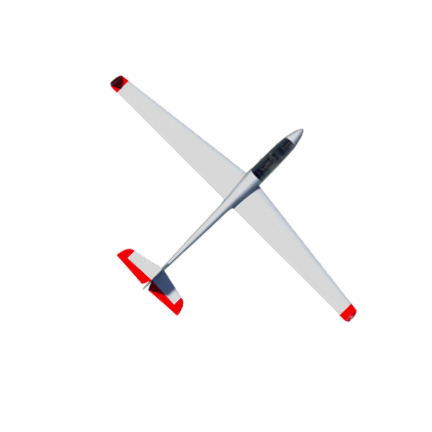
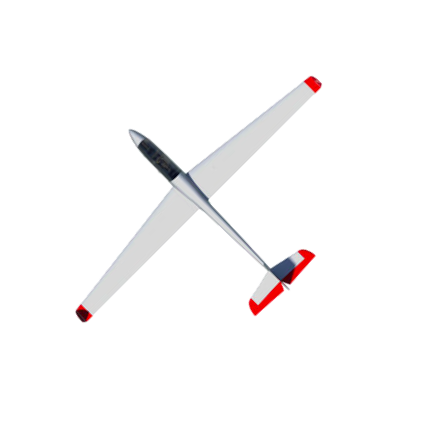
glider rotating during flight

Changed region(s): [[0.1806, 0.1505, 0.8426, 0.7523], [0.5718, 0.5718, 0.6019, 0.6019]]

diff --git a/public/index.html b/public/index.html
@@ -123,9 +123,7 @@
         videoElem.srcObject = await navigator.mediaDevices.getDisplayMedia(displayMediaOptions);
         const videoTrack = videoElem.srcObject.getVideoTracks()[0];
         var imageCapture = new ImageCapture(videoTrack);
-        console.log(imageCapture);
         imageCapture.grabFrame().then(function(imageBitmap) {
-          console.log('Grabbed frame:', imageBitmap);
           canvas.width = imageBitmap.width;
           canvas.height = imageBitmap.height;
           canvas.getContext('2d').drawImage(imageBitmap, 0, 0);
@@ -163,8 +161,8 @@
       $("#titleFlight").html("Start Flight");
       realtime_counter = 0;
 
-      console.log("realtime_counter outside  getCurrentPosition: "+realtime_counter);
-      console.log("realtime_markers outside  getCurrentPosition: "+realtime_markers);
+      // console.log("realtime_counter outside  getCurrentPosition: "+realtime_counter);
+      // console.log("realtime_markers outside  getCurrentPosition: "+realtime_markers);
 
        var d = new Date();
        var t2 = d.getTime();
@@ -188,19 +186,24 @@
            old_lng = curr_lng;
            vertical_speed = 0;
            old_alt = curr_alt;
+           old_coord = map.getProjection().fromLatLngToPoint(new google.maps.LatLng(old_lat,old_lng));
            curr_lat = position.coords.latitude;
            curr_lng = position.coords.longitude;
            curr_alt = position.coords.altitude;
+           // curr_lat = old_lat+ ((Math.floor(Math.random() * 20)-10)/1000);
+           // curr_lng = old_lng+ ((Math.floor(Math.random() * 20)-10)/1000);
+           // curr_alt = 0;
+           curr_coord = map.getProjection().fromLatLngToPoint(new google.maps.LatLng(curr_lat,curr_lng));
           // inc+=1;
-           console.log("curr_lat : "+curr_lat+"  curr_lng: "+curr_lng);
+           console.log("curr_lat : "+curr_lat+"  curr_lng: "+curr_lng+"//current_degr_point:"+map.getProjection().fromLatLngToPoint(new google.maps.LatLng(curr_lat,curr_lng)));
            if( calGap(curr_lat, old_lat) > cleaning_criteria || calGap(curr_lng, old_lng) > cleaning_criteria ) {
-              console.log("invalid difference range. lat: "+calGap(curr_lat, old_lat)+", lng: "+calGap(curr_lng, old_lng));
+              // console.log("invalid difference range. lat: "+calGap(curr_lat, old_lat)+", lng: "+calGap(curr_lng, old_lng));
            } else {
                var google_lat_lng = new google.maps.LatLng(curr_lat, curr_lng);
               map.setCenter({lat:curr_lat, lng:curr_lng});
 
               param["glider_icon"].setPosition(google_lat_lng);
-              var rot_glider = rotated_glider(map.getProjection().fromLatLngToPoint(new google.maps.LatLng(old_lat,old_lng)));
+              var rot_glider = rotated_glider(old_coord.x-curr_coord.x,old_coord.y-curr_coord.y);
               param["glider_icon"].setIcon(rot_glider);
               realtime_markers.push(glider_icon);
 
@@ -243,13 +246,13 @@
             }
 
           if(realtime_counter>0) {
-            console.log("realtime_counter inside  getCurrentPosition: "+realtime_counter);
-            console.log("realtime_markers inside  getCurrentPosition: "+realtime_markers);
+            // console.log("realtime_counter inside  getCurrentPosition: "+realtime_counter);
+            // console.log("realtime_markers inside  getCurrentPosition: "+realtime_markers);
             realtime_markers.push(marker);
           }
          }
        ); // getCurrentPosition end
-       console.log("realtime_counter:"+realtime_counter);
+       // console.log("realtime_counter:"+realtime_counter);
 
        realtime_counter = realtime_counter-1;
        if(realtime_counter>0) {
@@ -626,11 +629,8 @@ function getallpilots(){
 
 
   $( "#flightHistory" ).submit(function( event ) {
-    console.log("View flight history start" + event);
-    console.log("View flight history start" + event);
-
     var all_checks = document.getElementById("returnJson").value;
-    console.log("View flight history start >>>  " +all_checks);
+    // console.log("View flight history start >>>  " +all_checks);
 
     event.preventDefault();
 

diff --git a/public/js/sk_common.js b/public/js/sk_common.js
@@ -68,9 +68,11 @@ function calGap(base, obj1) {
   return Math.abs(obj1-base);
 }
 
-function rotated_glider(param_point) {
-  var degree_div_45 = Math.atan2(param_point.y, param_point.x) * 180 / Math.PI / 45;
-  console.log("degree_div_45:"+param_point.y+"//"+param_point.x+"//"+Math.atan2(param_point.y, param_point.x) * 180 / Math.PI);
+function rotated_glider(x, y) {
+  var degree_d = Math.atan2(y, x) * 180 / Math.PI;
+  if(degree_d<0)  degree_d=degree_d+360;
+  var degree_div_45 = degree_d / 45;
+  console.log("degree_div_45:"+y+"//"+x+"//"+degree_d);
   var rot_icon = "glider_0.png"
   if(degree_div_45 >= 1 && degree_div_45 < 2) rot_icon = "glider_45.png";
   if(degree_div_45 >= 2 && degree_div_45 < 3) rot_icon = "glider_90.png";
